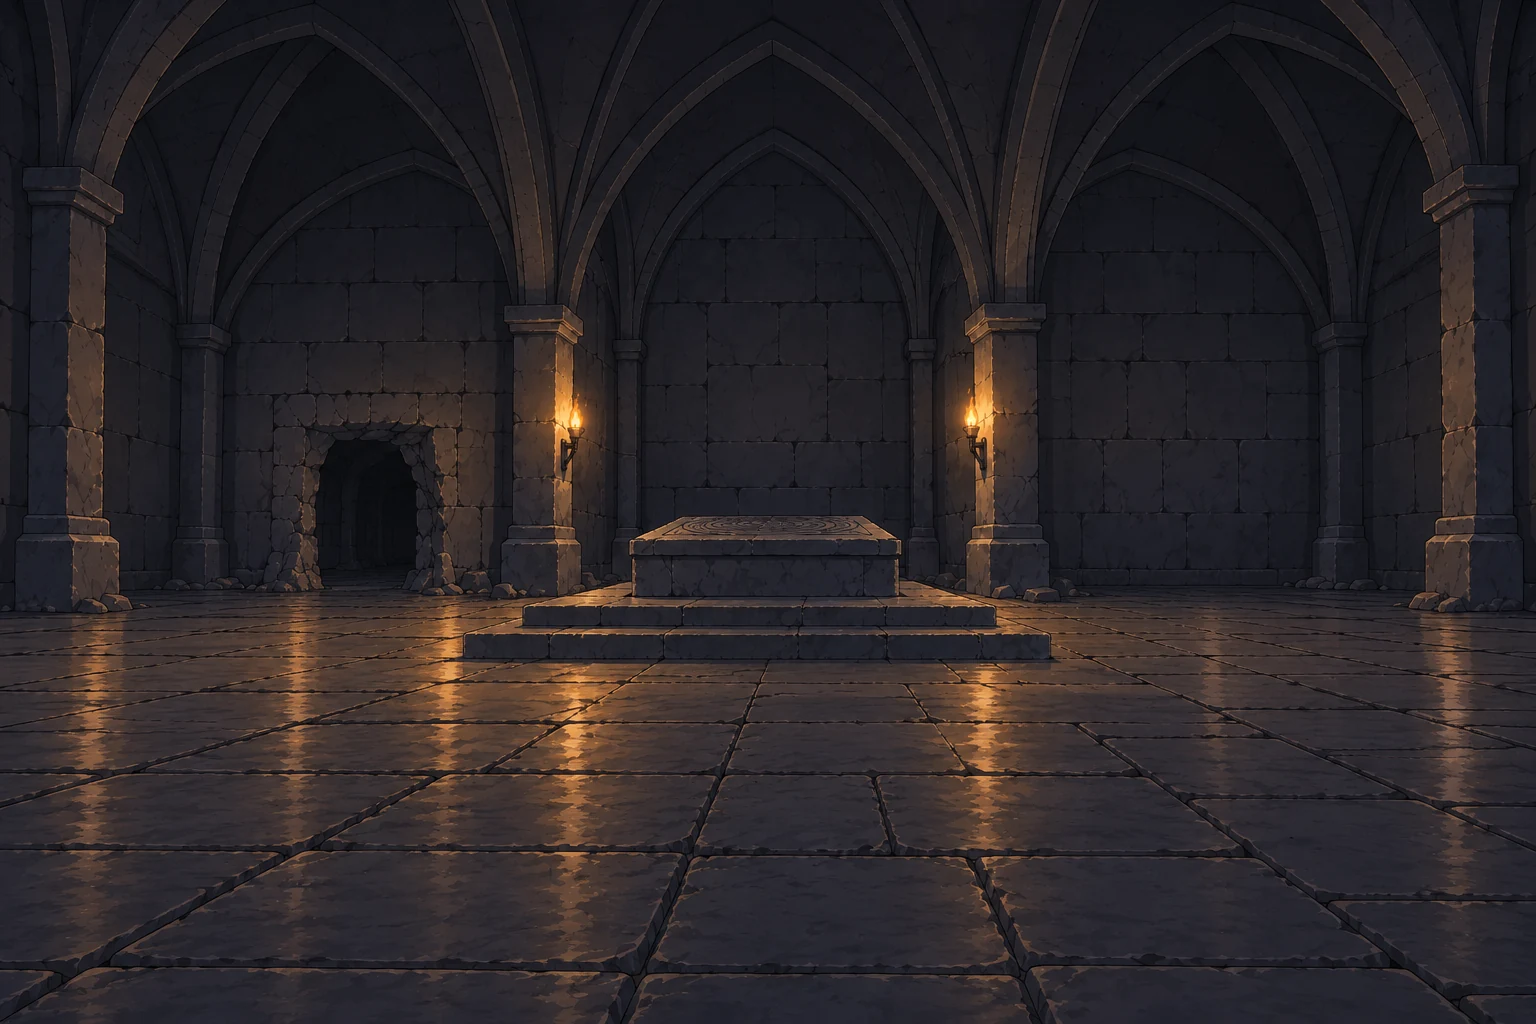
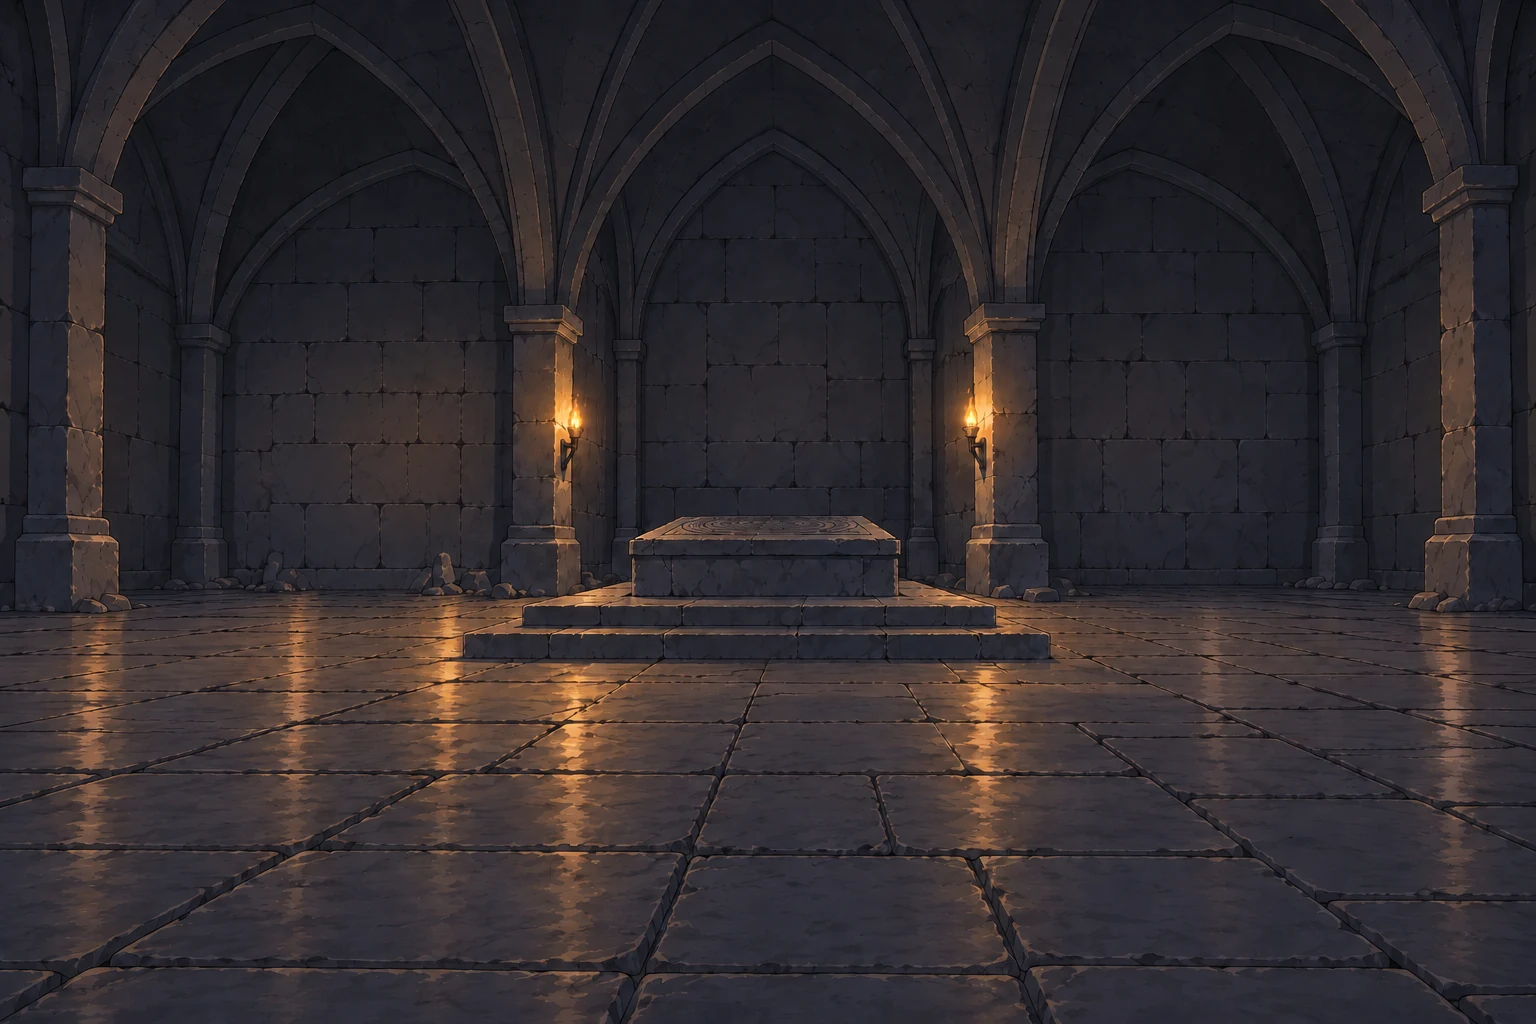
art(古墓): 底層祭壇差分對再換 —— _off 實心牆、_on 才裂開
Ray：「_off 實心牆 _on 才裂開」

lowaltar 的左出口是 exitIf:{ left:'tomb_altar_on' }（點亮才開），
而先前那一對兩張都畫了左邊的拱門 ＝ 門一直開著，與資料矛盾。現在：
  _off  左側實心砌石牆，四面走不出去      有效出口只有 up  ⇒ 看得見 0 條 ✔
  _on   冷光 ＋ 左牆被震裂開，裂口後面暗下去  up ＋ left      ⇒ 看得見 1 條 ✔
兩張都仍符合「出口數 − 1」，而且牆裂開現在是演出來的 ——
正好接上索菈娜那句「原來風是從這座牆後面出來的」。

作法兩段（都是 GPT 編輯）：先封牆（改動 2.6%），再從封牆版加冷光＋震裂。
驗收：拱頂與柱子那一帶（y 0..255）只差 1,432 px ⇒ 構圖沒被重畫。
平坦區高頻 1.12／1.07（校準 0.78／1.32）⇒ 不必過 Gemini。

⚠ 紀錄：「加冷光」這種編輯在 GPT 上連卡三次（停在思考、gen:false 卻不出圖），
換新串＋改短提示詞第四次才過。照憲法生圖卡住就換串，但不要因此換工具 ——
它是不穩不是不能做（Gemini 那條因為 hidden 分頁 render 不出來，走不了）。

diff --git a/resources/background/_tomb_fill_worklist.md b/resources/background/_tomb_fill_worklist.md
@@ -287,3 +287,37 @@
     'tomb_crypt':         2,
 
 ⚠ 節點資料**一個字都不用動**（七張的基底名全部沒變，`bgWhen` 也照舊）。
+
+
+---
+
+# ⭐ 底層祭壇差分對**再換一次**：`_off` 實心牆、`_on` 才裂開（ver -1670 後，Ray 定案）
+
+> Ray：「`_off` 實心牆 `_on` 才裂開」
+
+`lowaltar` 的左出口是 `exitIf:{ left:'tomb_altar_on' }`（**祭壇點亮才開**），
+而先前那一對**兩張都畫了左邊的拱門** —— 等於門一直開著，與資料矛盾。現在：
+
+| | 畫面上 | 有效出口 | 看得見的通道 |
+|---|---|---|---|
+| `tomb_lowaltar_off` | 左側是**實心砌石牆**，四面都走不出去 | 只有 `up` | **0 條** ✔ |
+| `tomb_lowaltar` | 祭壇冷光 ＋ **左牆被震裂開**，裂口後面暗下去 | `up` ＋ `left` | **1 條** ✔ |
+
+⇒ 兩張都仍然符合「出口數 − 1」，而且**牆裂開這件事現在是演出來的** ——
+正好接上索菈娜那句「原來風是從這座牆後面出來的」。
+
+## 作法（兩段，都是 GPT 編輯）
+
+1. 先把上一版的 `_off` **左側拱門封成實心牆**（改動 2.6%，其餘完全不變）
+2. 再從**封牆版**做點亮版：加冷光 ＋ 左牆震裂
+
+驗收：拱頂與柱子那一帶（y 0..255）只差 **1,432 px** ⇒ 構圖沒有被重畫。
+差異集中在 y384~895（祭壇／台階／地板的冷光）與左側裂口。
+平坦區高頻 1.12／1.07（校準 crypta 0.78、charnel 1.32）⇒ 不必過 Gemini。
+
+## ⚠ 過程紀錄：**「加冷光」這種編輯在 GPT 上卡了三次**
+
+同一天：`_off` 封牆（結構編輯）一次就過；「加冷光」連卡三次（停在「思考」、
+`gen:false` 卻不出圖，撐三分鐘以上），**換新串、改短提示詞之後第四次才過**。
+⇒ 照憲法「生圖卡住就換串」，不要在原串等 —— 但也**不要因此換工具**，
+它是不穩不是不能做（Gemini 那條因為 hidden 分頁 render 不出來，走不了）。
